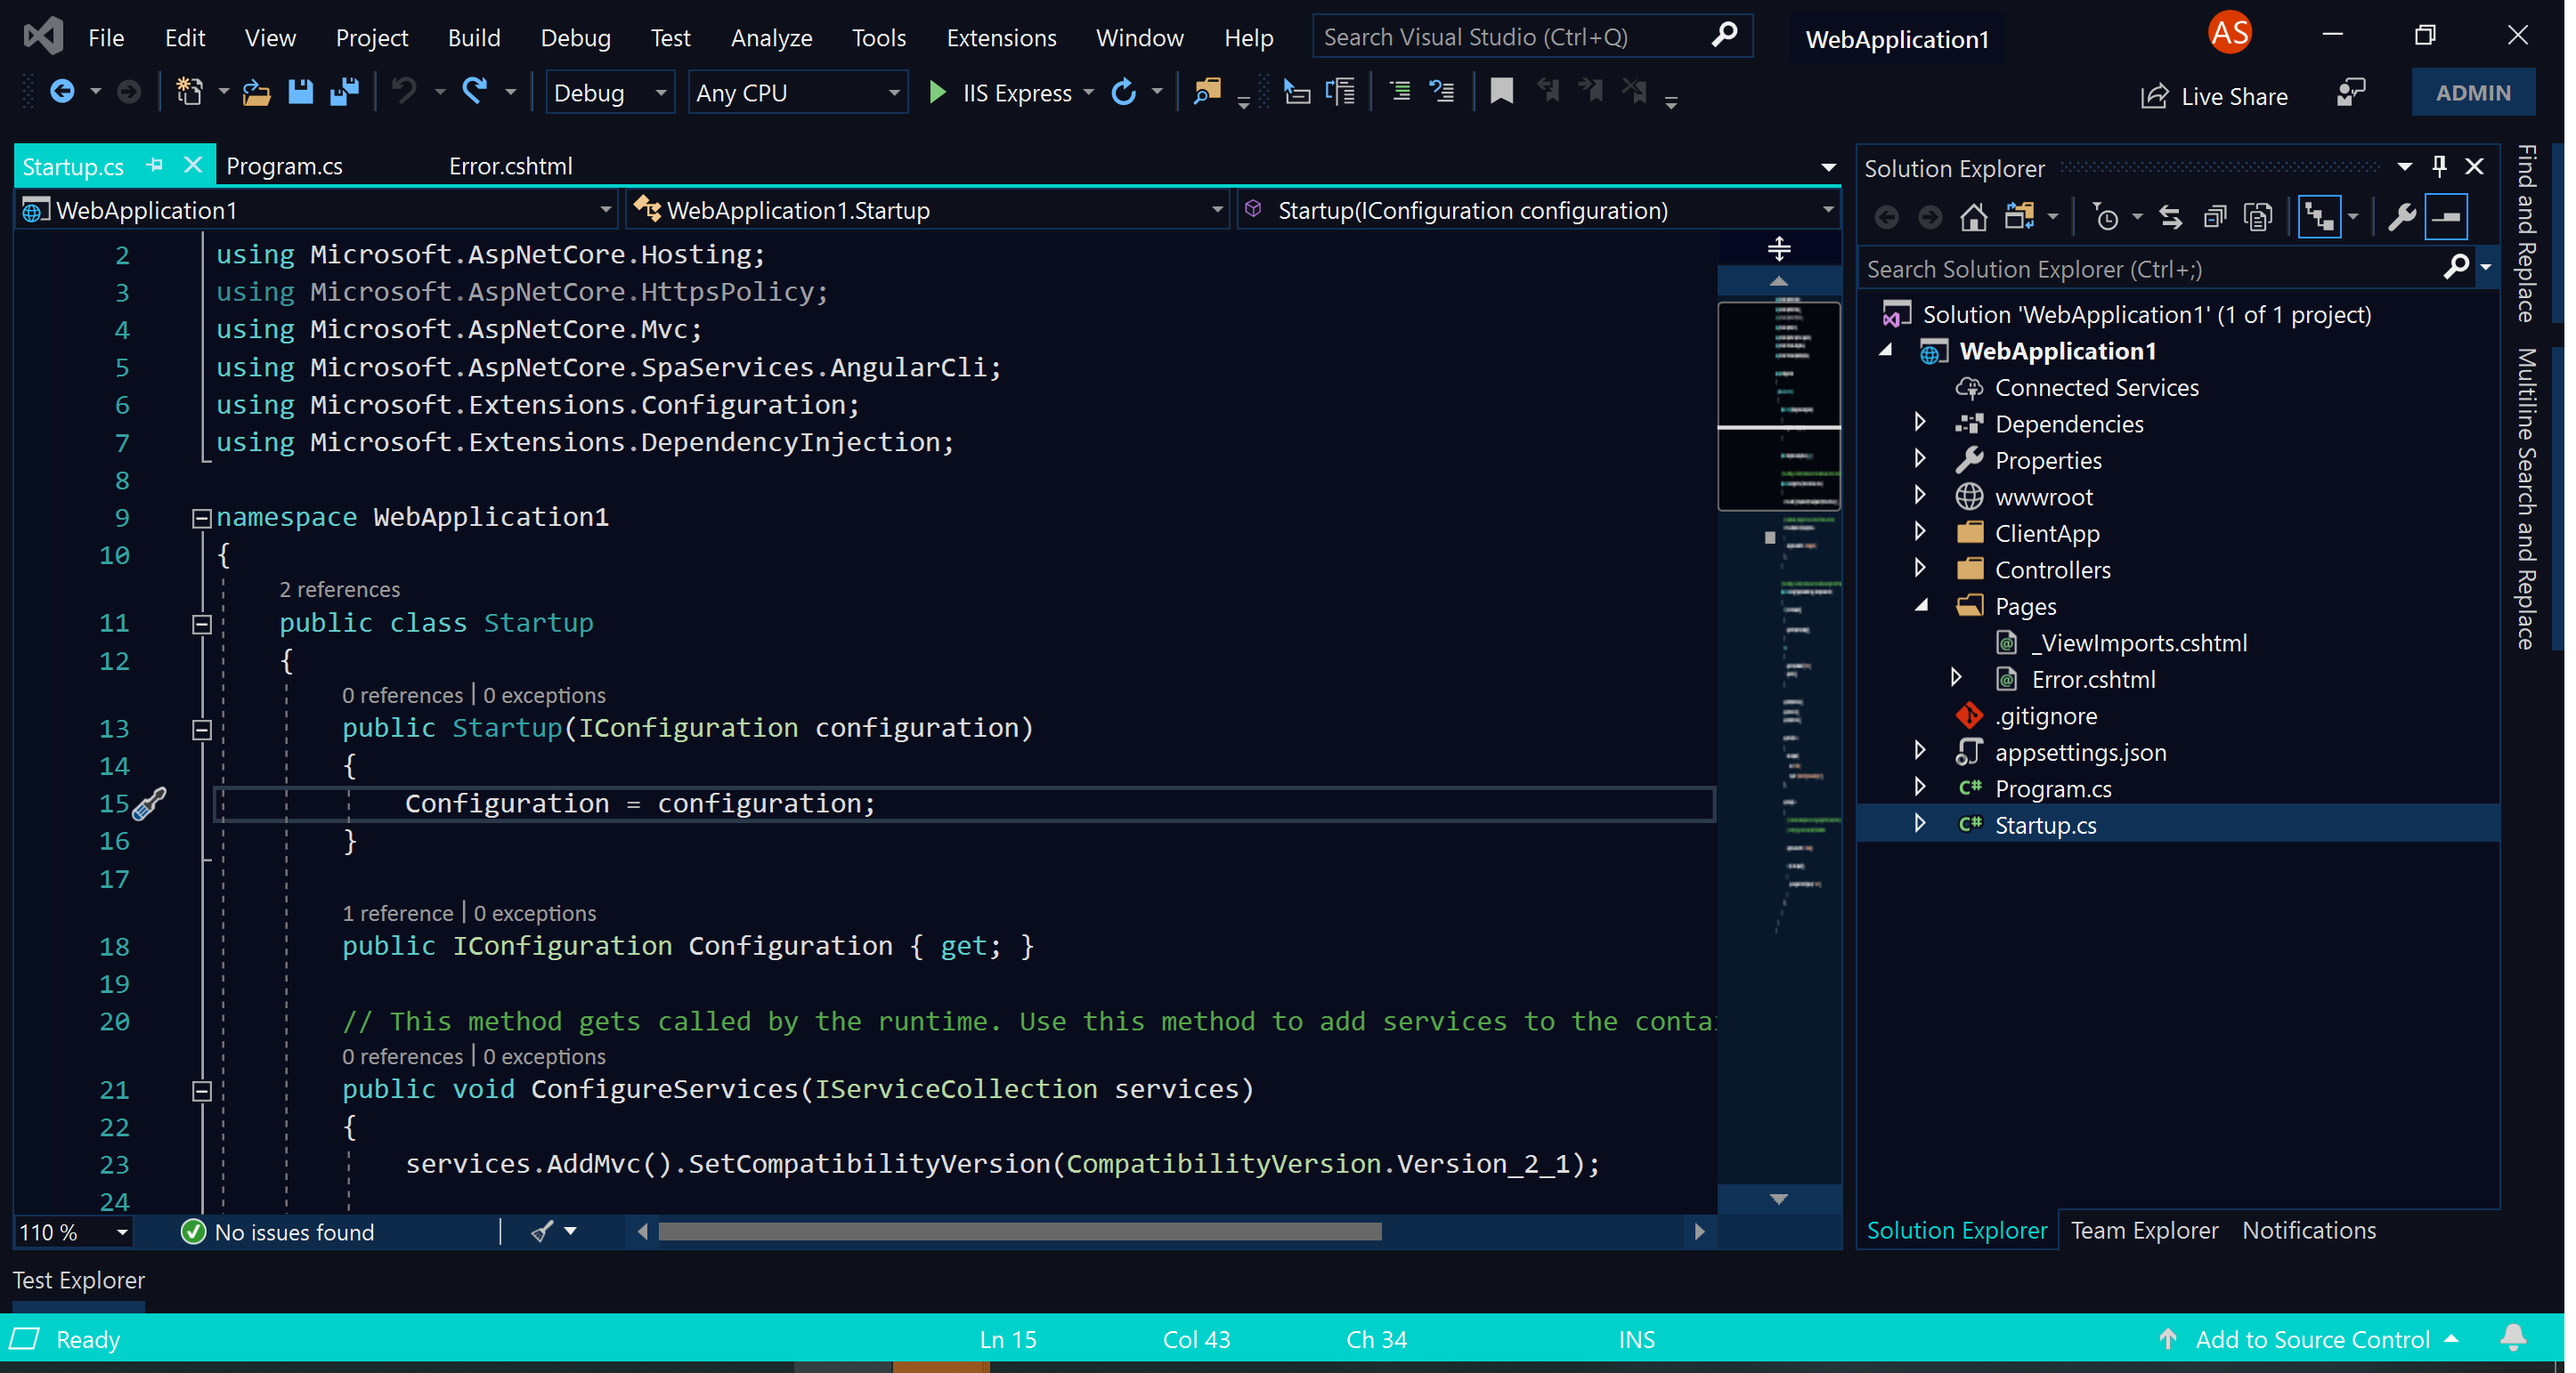
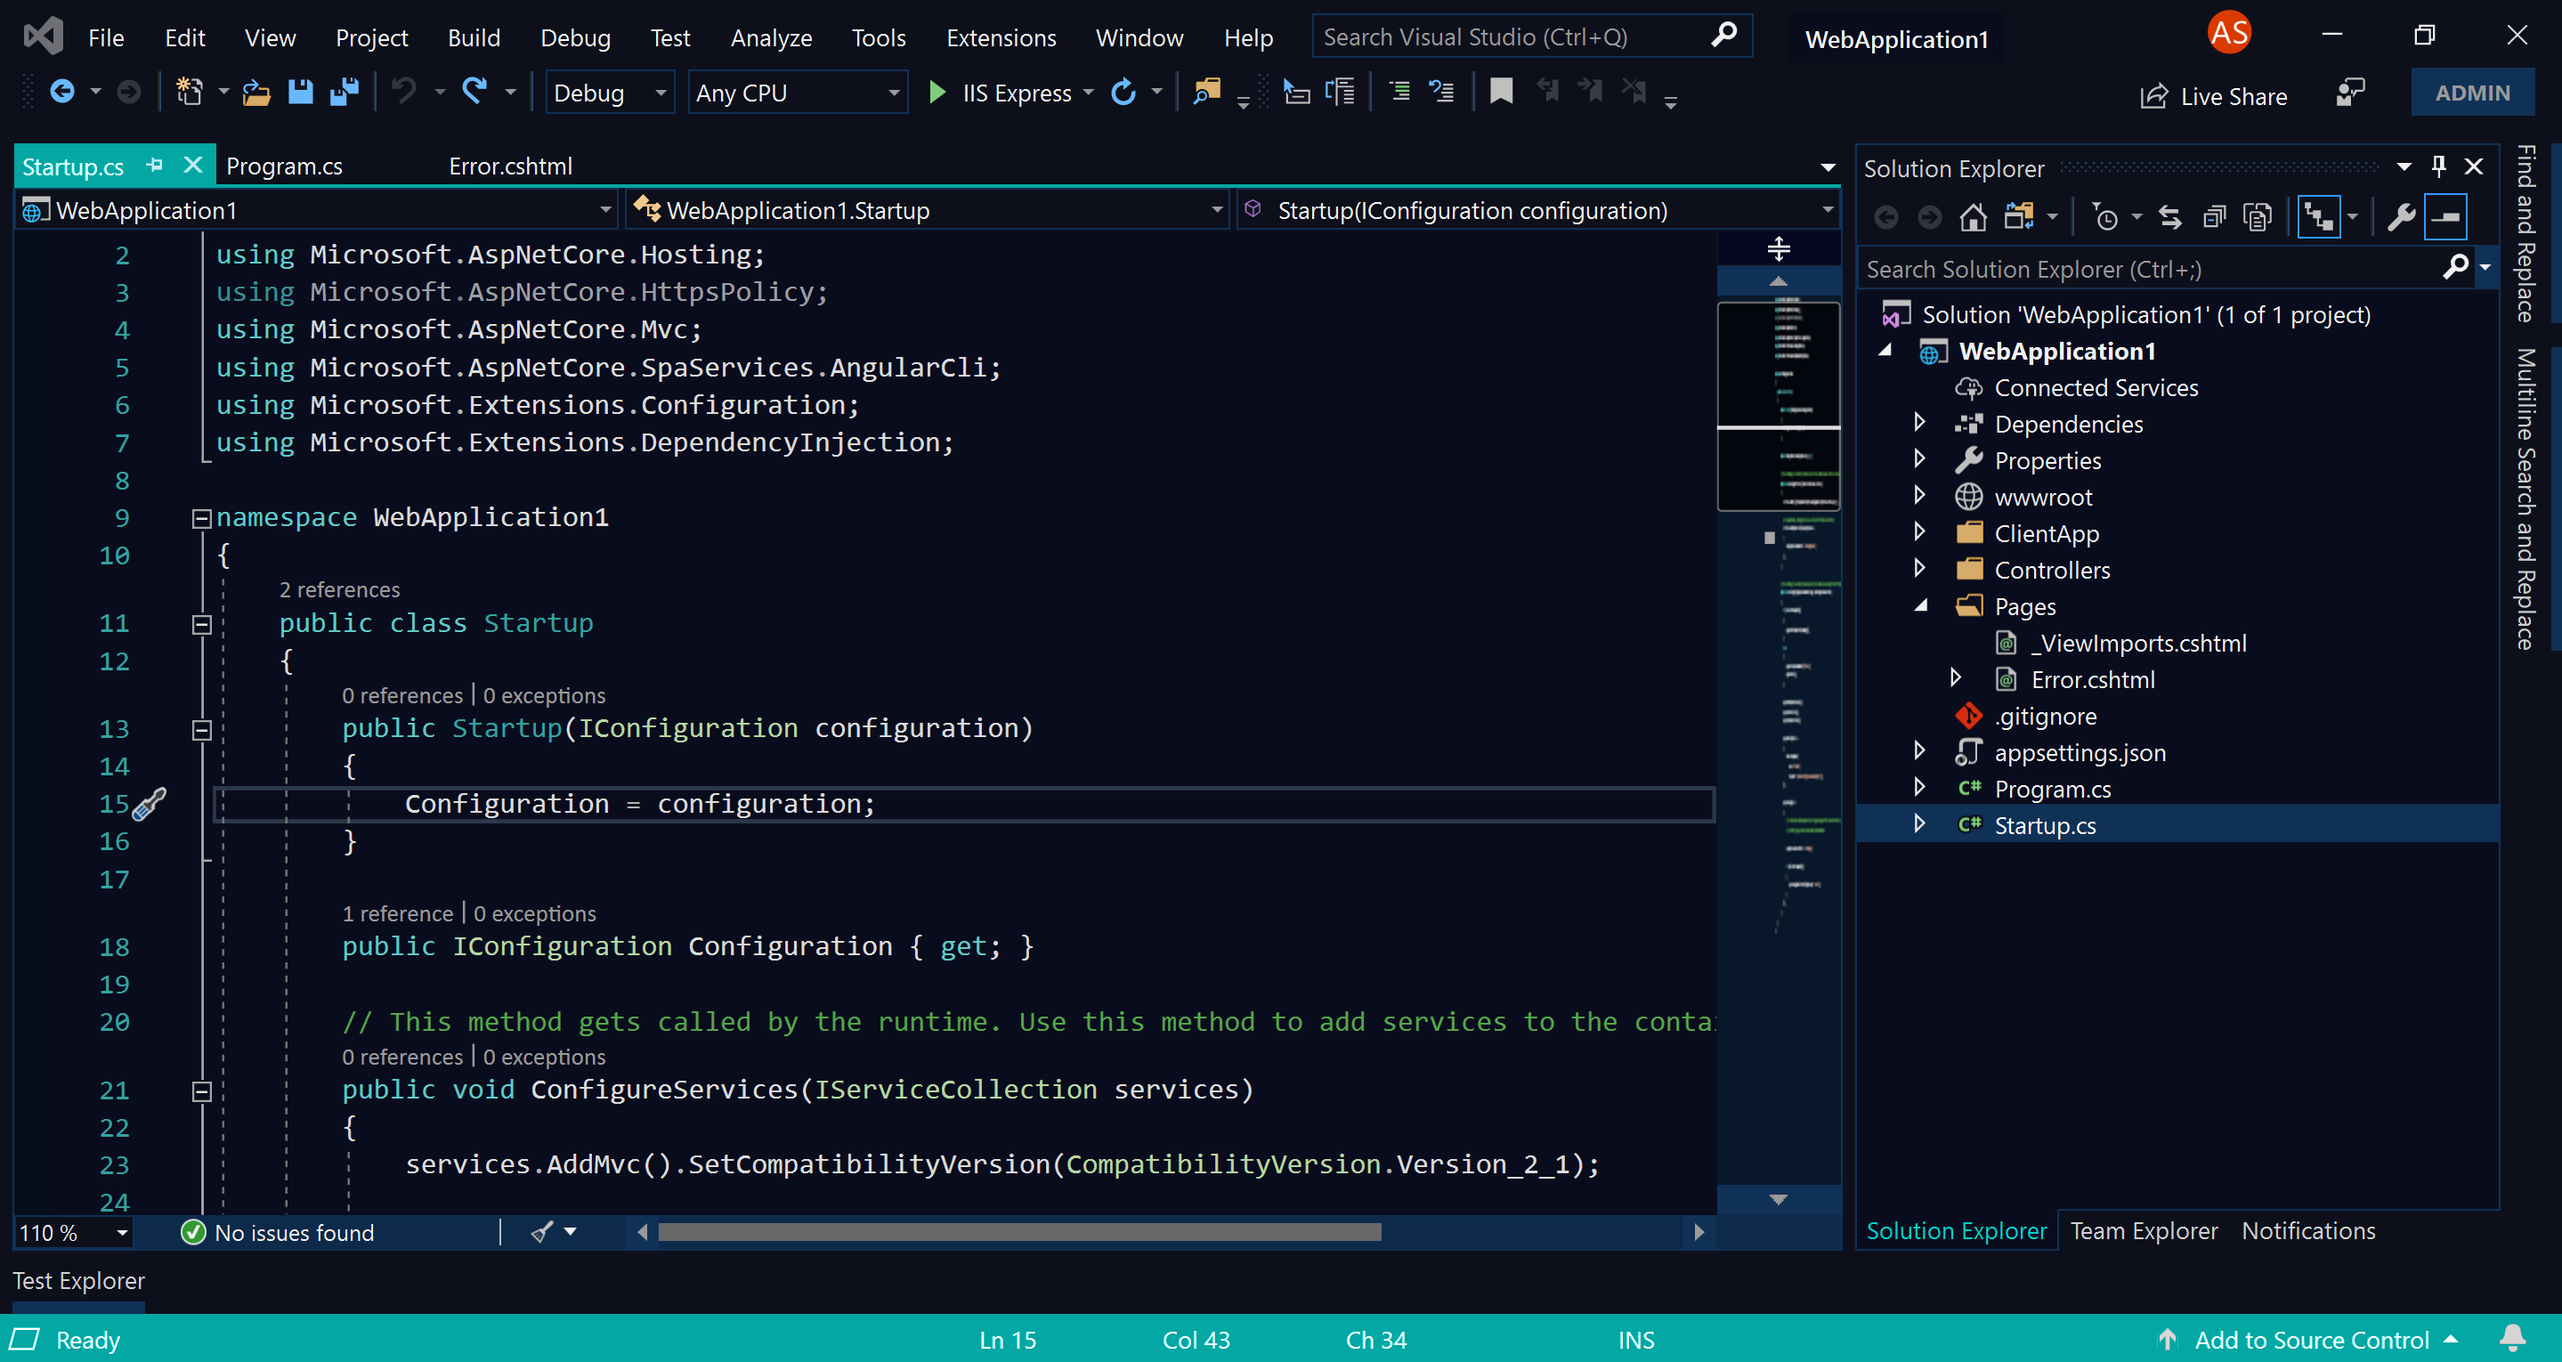
🚀 Update images and readme, bump version

diff --git a/README.md b/README.md
@@ -4,7 +4,7 @@
 
 🌌 **Midnight Lights** is an original dark blue theme for Visual Studio 2019 and 2022. For something darker, check out my new theme [⚫ **Midnight Deep**](https://marketplace.visualstudio.com/items?itemName=AustinStanding.vsthememidnightdeep).
 
-![Midnight Lights Screenshot](https://github.com/austinstanding/midnight-lights-vstheme/raw/master/images/screenshot1.png)
+![Midnight Lights Screenshot](https://github.com/austinstanding/midnight-lights-vstheme/raw/master/MidnightLightsProject/screenshot1.png)
 
 This is my first theme and you will probably find some quirks. This is a personal project, but feel free to [fork the repository](https://github.com/austinstanding/midnight-lights-vstheme)!
 
@@ -20,9 +20,9 @@ I like to extend my theme with [Viasfora](https://marketplace.visualstudio.com/i
 
 ## Versions
 
-### v1.4.2-3
+### v1.5
 
-- Improve contrast in accent light blue 🚸
+- Improve contrast in accent highlights and hovers 🚸
 
 ### v1.4.1
 
